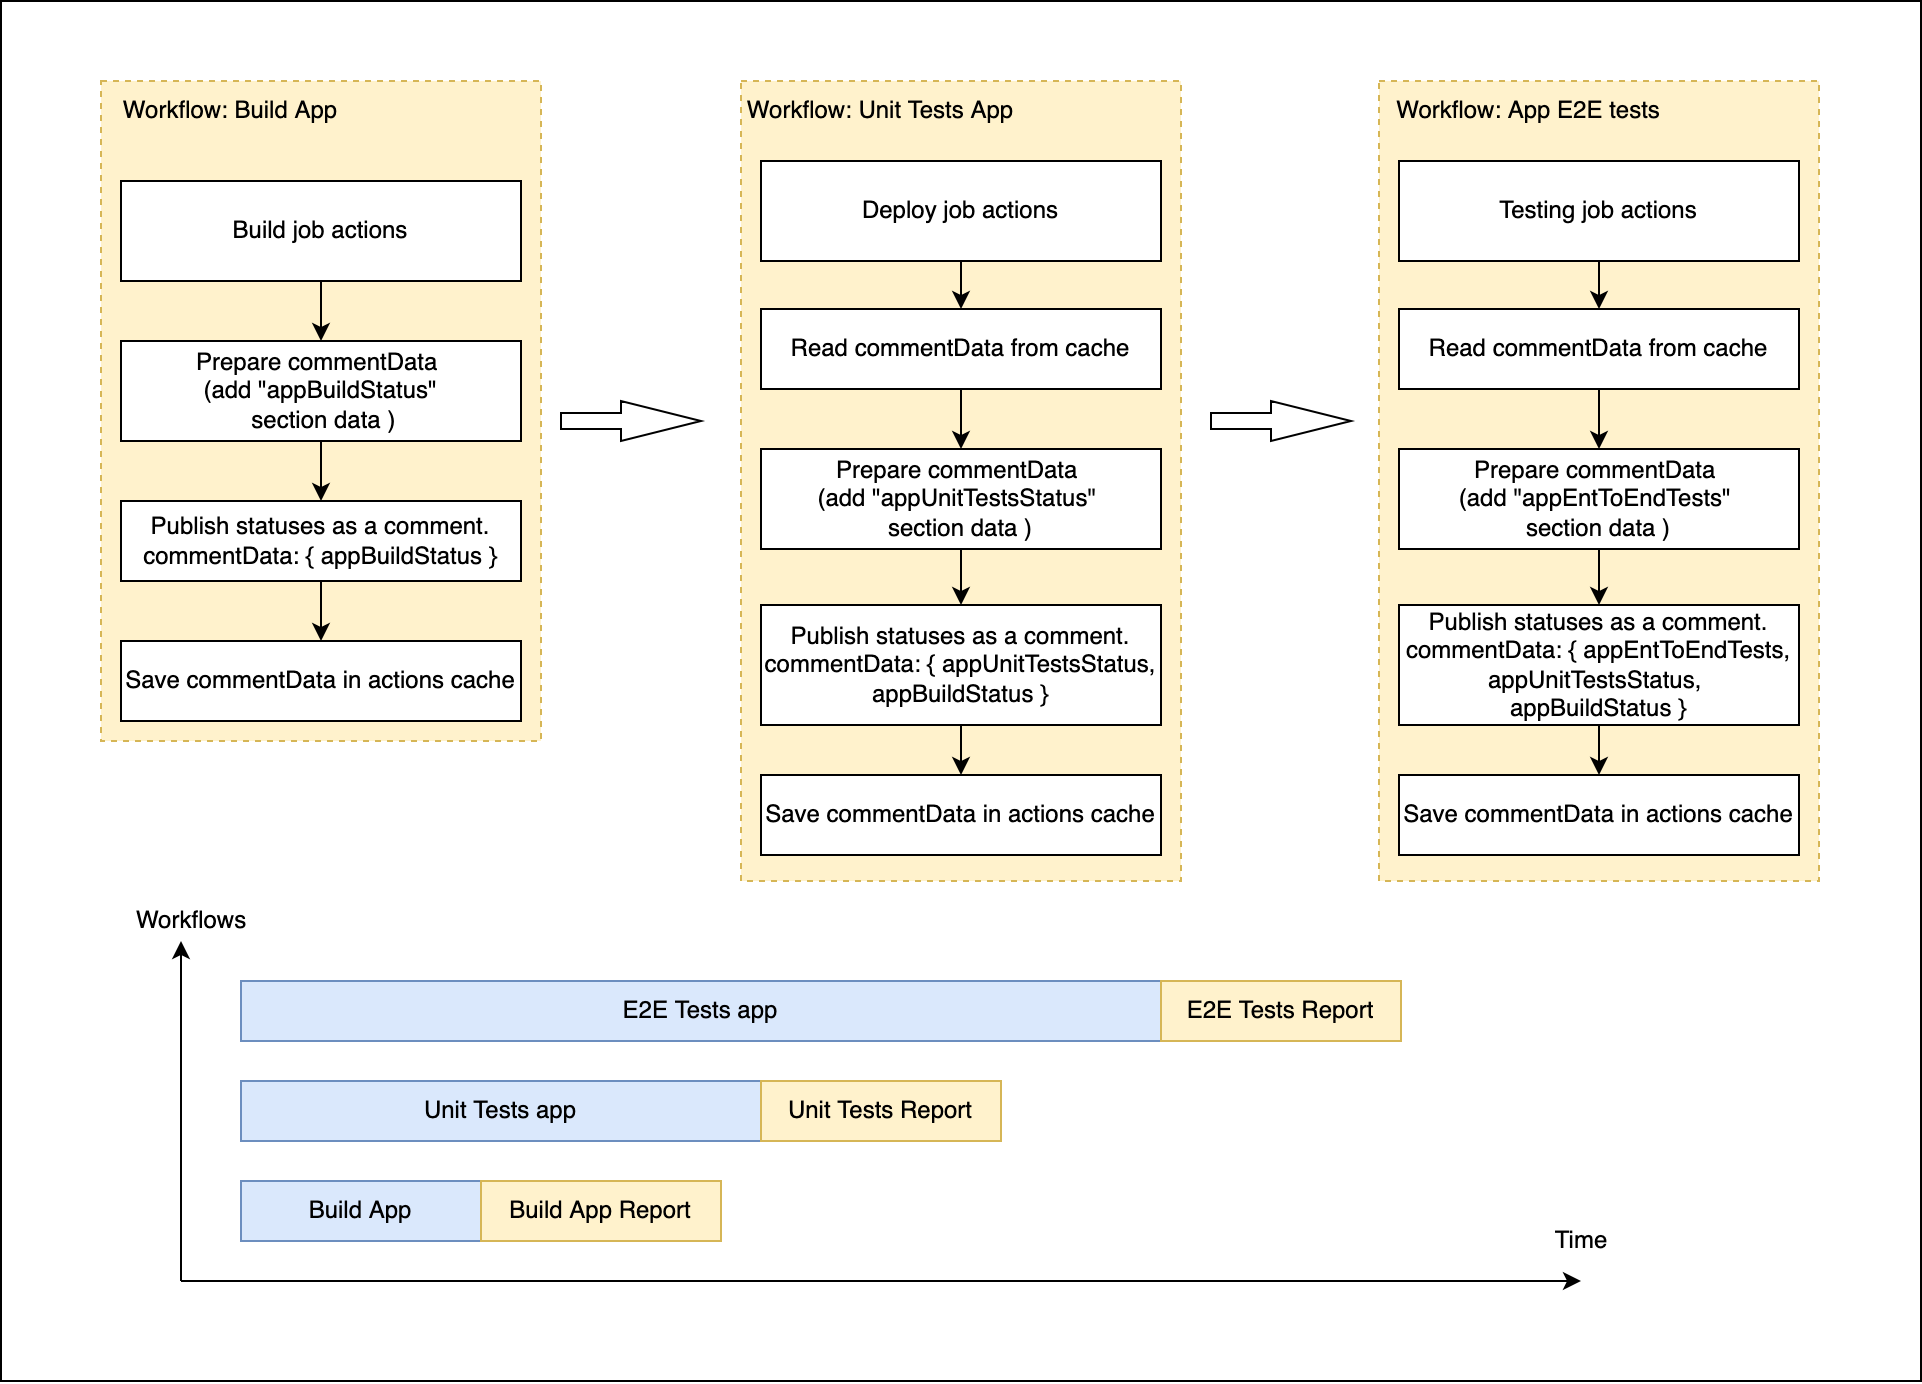
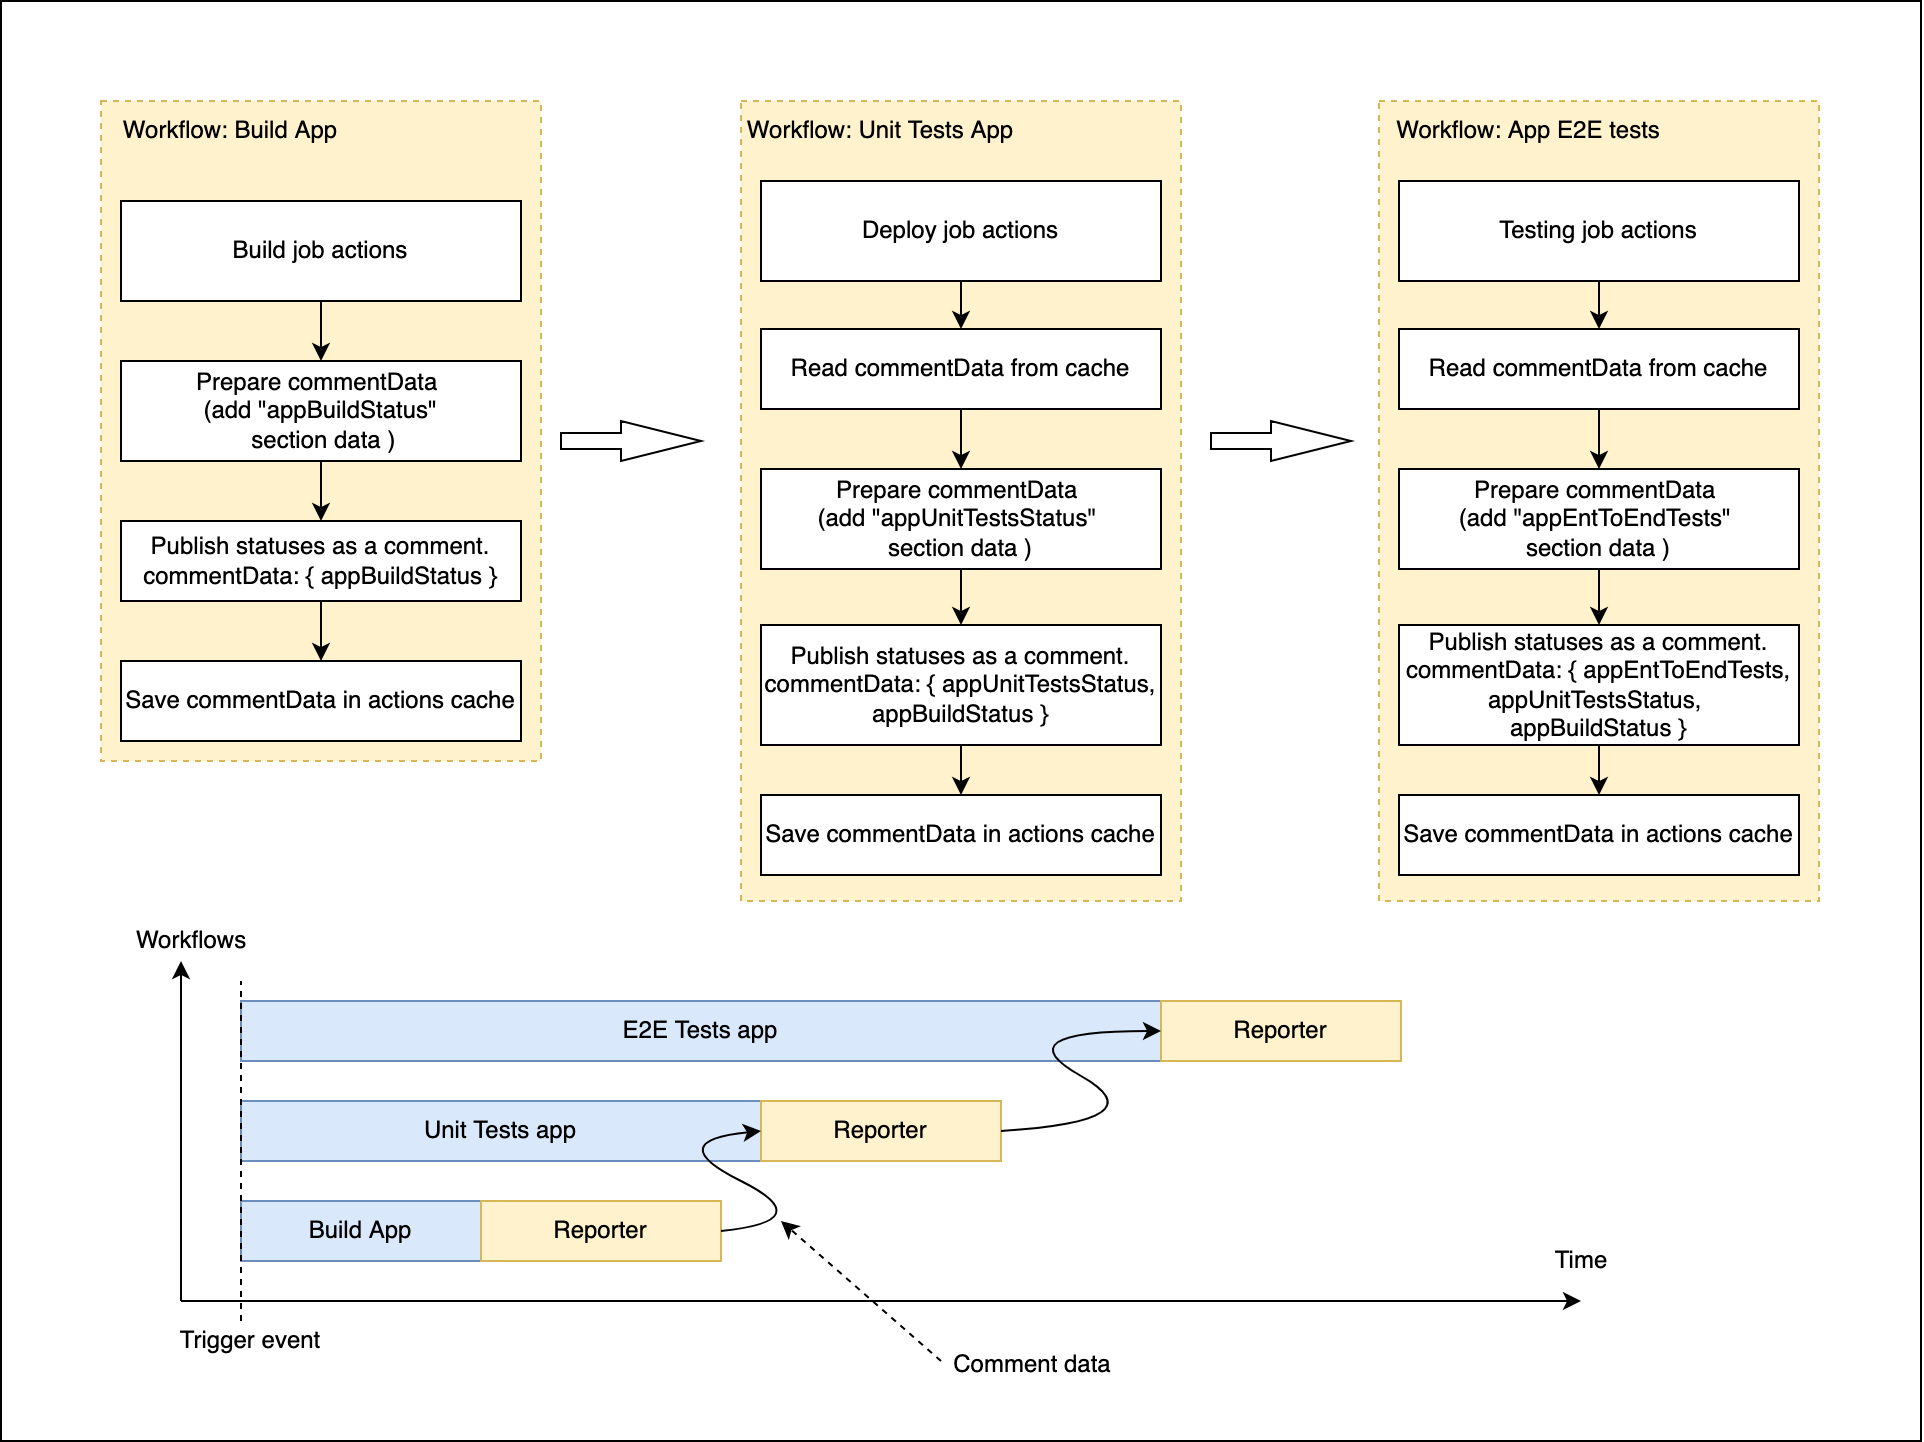
docs: Update ci docs

diff --git a/ci-docs/README.md b/ci-docs/README.md
@@ -2,9 +2,18 @@
 
 Basilisk-UI GitHub Actions are configured with using ["Reusing workflows"](https://docs.github.com/en/actions/using-workflows/reusing-workflows)
 and [GitHub Script](https://github.com/actions/github-script).
-We have root workflows which are configured for specific purposes with different 
+We have caller workflows which are configured for specific purposes with different 
 trigger events (`pull_request`, `push`) and reusable modules/workflows which can be reused in different 
-combinations/sequence in root workflow. 
+combinations/sequence in caller workflow. 
+
+<details>
+<summary><i>Short info about Reusable workflows</i></summary>
+A workflow that uses another workflow is referred to as a "caller" workflow. The reusable workflow is a 
+"called" workflow. One caller workflow can use multiple called workflows. Each called workflow is 
+referenced in a single line. The result is that the caller workflow file may contain just a few lines of 
+YAML, but may perform a large number of tasks when it's run. When you reuse a workflow, the entire called 
+workflow is used, just as if it was part of the caller workflow.
+</details>
 
 ---
 
@@ -15,17 +24,17 @@ combinations/sequence in root workflow.
 
 
 ### Files naming/structure convention
-- __root workflow file__ - (`.github/workflows/wf_*.yml`) has prefix `wf_`. Consists of reusable 
+- __caller workflow file__ - (`.github/workflows/wf_*.yml`) has prefix `wf_`. Consists of reusable 
   workflow calls in different combinations regarding purposes. Should not contain any functionality for 
-  building, testing, deployment, etc.
+  building, testing, deployment, etc., only calls of called workflows.
 - __dispatched workflow__ - (`.github/workflows/wfd_*.yml`) has prefix `wfd_`. Workflow which is triggering after dispatch event,
-  which is created manually or from another workflow via github API. More details [here](https://docs.github.com/en/rest/reference/actions#create-a-workflow-dispatch-event).
-_**IMPORTANT** - All updates in such workflow file will be applied only if they pushed into default repository branch (`main | develop`)._
-- __reusable workflow file__ - (`.github/workflows/_called_*.yml`) has prefix `_called_`. Contains 
+  which is created manually or from another workflow via GitHub API. More details [here](https://docs.github.com/en/rest/reference/actions#create-a-workflow-dispatch-event).
+_**IMPORTANT** - All updates in such workflow file and related github-script files will be applied only if they pushed 
+into default repository branch (`main | develop`)._
+- __called workflow file__ - (`.github/workflows/_called_*.yml`) has prefix `_called_`. Contains 
   functionality for specific purpose (application build, unit testing, etc.). Should contain independent piece of full
   workflow, generate artifacts for next steps, publish reports, etc.
-- __github scripts root module__ - (`./scripts/ci/github-script-src/*.js`) contains JavaScript logic for GitHub Script action.
-- __github scripts imported module__ - (`./scripts/ci/github-script-src/_*.js`) contains JavaScript import modules for GitHub Script action.
+- __github-scripts sources__ - (`./scripts/ci/github-script-src/**/*.js`) contains JavaScript logic for GitHub Script action.
 
 ---
 
@@ -168,19 +177,46 @@ workflow inputs.
 <hr />
 
 ### :chains:  Report status in issue ([.github/workflows/_called_report-status-in-issue.yml](/.github/workflows/_called_report-status-in-issue.yml))
-Publish statuses and reports from different steps of root workflow as comment in related PR. Workflow is based on libraries
-`GitHub Script`. If we need fetch available artifacts, so it can be done only in separate/next workflow run after workflow run
+Publish statuses and reports from different steps of caller workflow as comment in related PR. Workflow is based on libraries
+`GitHub Script`. 
+
+#### Artifacts
+If we need fetch available artifacts, so it can be done only in separate/next workflow after workflow 
 which generates these artifacts. Artifacts are not visible for API before run is completed. More details in 
-[this](https://github.com/actions/upload-artifact/issues/50) issue. As result current called workflow has logic, 
-explained in diagram below:
+[this](https://github.com/actions/upload-artifact/issues/50) issue. If `publish-artifacts-list == true`, current called 
+workflow generates dispatch event for workflow, which can fetch artifacts from current workflow run.
+
+As result `Report status in issue` workflow has logic, explained in diagram below:
 
 ![Publish reports as issue comment](./publish-reports-in-issue-comment-flow.png)
 
 Report status workflow can collect statuses from different workflows and publish them in one single comment.
-This is possible through the use actions caching feature (`actions/cache@v2`). Flow is explained in schema below 
+This is possible through the usage of actions caching feature (`actions/cache@v2`). Each `push` or `pull_request` events can 
+trigger multiple workflows, which contains `Report status in issue` job (_called workflow_). If trigger commit is related
+with some open pull request or trigger event is [pull_rerquest:opened](https://docs.github.com/en/actions/using-workflows/events-that-trigger-workflows#pull_request),
+each run will publish it's statuses/artifacts as comment in appropriate Pull Request post. If comment is already existing,
+reporter from each caller workflow will update existing comment by it's own status and republish statuses from other 
+workflow runs. It's possible though cached comment data (stringified JSON saved in the file) from each reporter, which 
+has been triggered buy the same event. Each reported fetches cached data from reporter job of previously finished 
+workflow run, extends cached data by it's own and uses extended data for comment publication.
+This provides inheritance of comment data between workflows.
+
+`actions/cache@v2` can read files from GitHub cache. Also, if `key` parameter is unique in the repo, file in 
+`path` location will be added into cache after successful completion of the job. Each reporter generates it's own cache
+with key by next pattern - `reporter-artifacts-branch-${{ github.ref_name }}-commit-${{ github.sha }}-${{ steps.timestamp.outputs.time }}`
+what ensures caching comment data from each run. As `restore-keys` next patters is used - `reporter-artifacts-branch-${{ github.ref_name }}-commit-${{ github.sha }}-`.
+It means that comment data file with the most recent creation date for trigger event will be restored, as last part of `key` with timestamp
+will be ignored in search (more details [here](https://docs.github.com/en/actions/using-workflows/caching-dependencies-to-speed-up-workflows#matching-a-cache-key)).
+
+
+Illustrations below show flow with 3 workflows, which has been triggered in parallel by the same event.
 (_workflow names are provided only for example purposes and can be different in real case_):
 
 ![Cached comment data flows](./cached-comment-data-flows.png)
+
+Crucial point of this example (**improvement is required in this place**) is that each `Report status in issue` job in each 
+parallel workflow must be started after completion of reporter job from another parallel workflow. If we get overlapping 
+of reporter jobs A and B, comment data (statuses) from reporter A or B will be lost.
 
 
 :inbox_tray: ***Inputs***:
